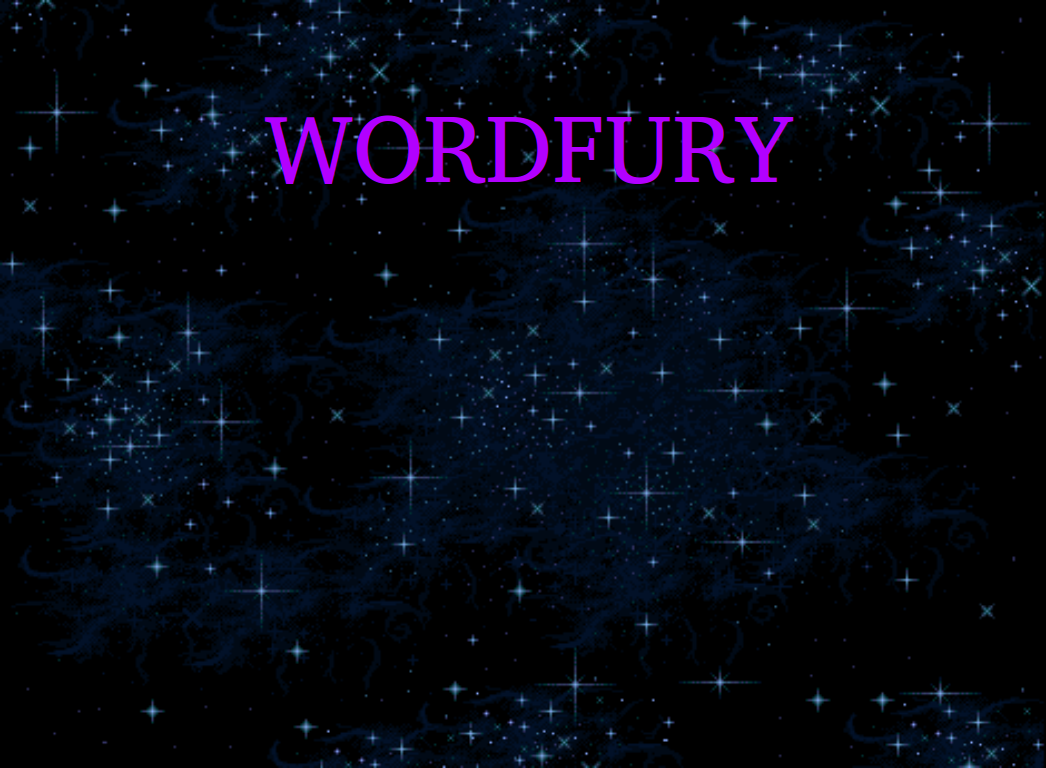
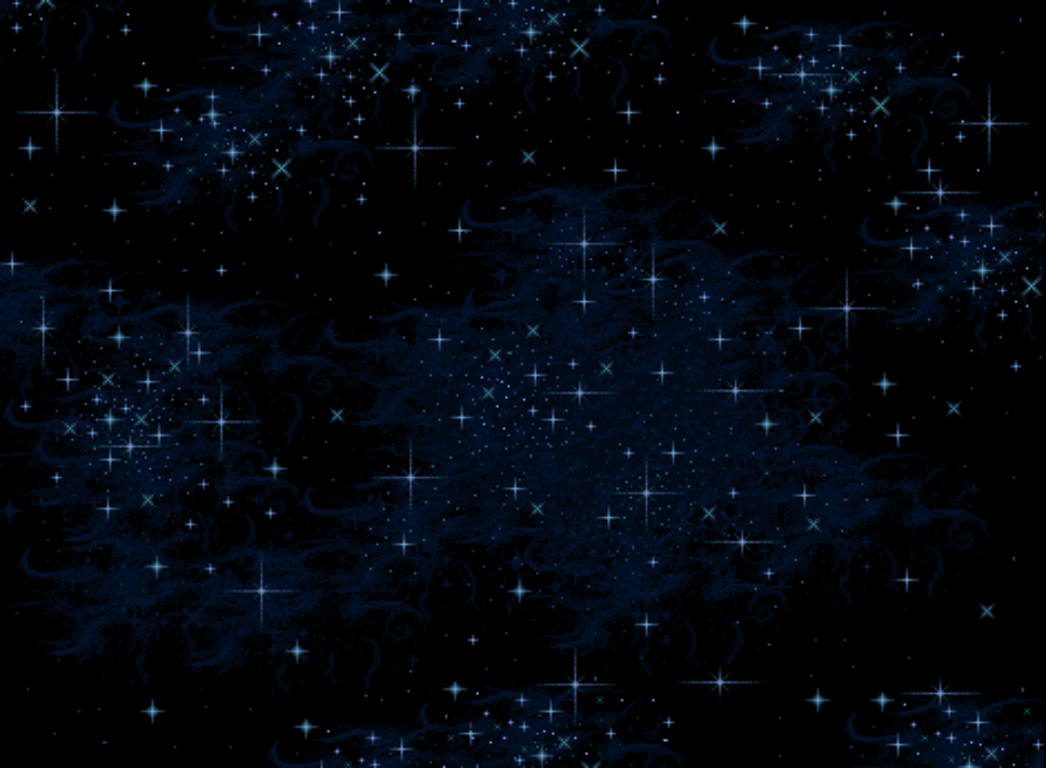
updated main menu and core game logic

Changed region(s): [[0.2447, 0.125, 0.7648, 0.25]]

diff --git a/src/CanvasInput.min.js b/src/CanvasInput.min.js
@@ -1,0 +1,10 @@
+/*!
+ *  CanvasInput v1.2.0
+ *  http://goldfirestudios.com/blog/108/CanvasInput-HTML5-Canvas-Text-Input
+ *
+ *  (c) 2013-2015, James Simpson of GoldFire Studios
+ *  goldfirestudios.com
+ *
+ *  MIT License
+ */
+!function(){var e=[],t=window.CanvasInput=function(t){var n=this;t=t?t:{},n._canvas=t.canvas||null,n._ctx=n._canvas?n._canvas.getContext("2d"):null,n._x=t.x||0,n._y=t.y||0,n._extraX=t.extraX||0,n._extraY=t.extraY||0,n._fontSize=t.fontSize||14,n._fontFamily=t.fontFamily||"Arial",n._fontColor=t.fontColor||"#000",n._placeHolderColor=t.placeHolderColor||"#bfbebd",n._fontWeight=t.fontWeight||"normal",n._fontStyle=t.fontStyle||"normal",n._readonly=t.readonly||!1,n._maxlength=t.maxlength||null,n._width=t.width||150,n._height=t.height||n._fontSize,n._padding=t.padding>=0?t.padding:5,n._borderWidth=t.borderWidth>=0?t.borderWidth:1,n._borderColor=t.borderColor||"#959595",n._borderRadius=t.borderRadius>=0?t.borderRadius:3,n._backgroundImage=t.backgroundImage||"",n._boxShadow=t.boxShadow||"1px 1px 0px rgba(255, 255, 255, 1)",n._innerShadow=t.innerShadow||"0px 0px 4px rgba(0, 0, 0, 0.4)",n._selectionColor=t.selectionColor||"rgba(179, 212, 253, 0.8)",n._placeHolder=t.placeHolder||"",n._value=(t.value||n._placeHolder)+"",n._onsubmit=t.onsubmit||function(){},n._onkeydown=t.onkeydown||function(){},n._onkeyup=t.onkeyup||function(){},n._onfocus=t.onfocus||function(){},n._onblur=t.onblur||function(){},n._cursor=!1,n._cursorPos=0,n._hasFocus=!1,n._selection=[0,0],n._wasOver=!1,n.boxShadow(n._boxShadow,!0),n._calcWH(),n._renderCanvas=document.createElement("canvas"),n._renderCanvas.setAttribute("width",n.outerW),n._renderCanvas.setAttribute("height",n.outerH),n._renderCtx=n._renderCanvas.getContext("2d"),n._shadowCanvas=document.createElement("canvas"),n._shadowCanvas.setAttribute("width",n._width+2*n._padding),n._shadowCanvas.setAttribute("height",n._height+2*n._padding),n._shadowCtx=n._shadowCanvas.getContext("2d"),"undefined"!=typeof t.backgroundGradient?(n._backgroundColor=n._renderCtx.createLinearGradient(0,0,0,n.outerH),n._backgroundColor.addColorStop(0,t.backgroundGradient[0]),n._backgroundColor.addColorStop(1,t.backgroundGradient[1])):n._backgroundColor=t.backgroundColor||"#fff",n._canvas&&(n._canvas.addEventListener("mousemove",function(e){e=e||window.event,n.mousemove(e,n)},!1),n._canvas.addEventListener("mousedown",function(e){e=e||window.event,n.mousedown(e,n)},!1),n._canvas.addEventListener("mouseup",function(e){e=e||window.event,n.mouseup(e,n)},!1)),window.addEventListener("mouseup",function(e){e=e||window.event,n._hasFocus&&!n._mouseDown&&n.blur()},!0),n._hiddenInput=document.createElement("input"),n._hiddenInput.type="text",n._hiddenInput.style.position="absolute",n._hiddenInput.style.opacity=0,n._hiddenInput.style.pointerEvents="none",n._hiddenInput.style.left=n._x+n._extraX+(n._canvas?n._canvas.offsetLeft:0)+"px",n._hiddenInput.style.top=n._y+n._extraY+(n._canvas?n._canvas.offsetTop:0)+"px",n._hiddenInput.style.width=n._width+"px",n._hiddenInput.style.height=n._height+"px",n._hiddenInput.style.zIndex=0,n._maxlength&&(n._hiddenInput.maxLength=n._maxlength),document.body.appendChild(n._hiddenInput),n._hiddenInput.value=n._value,n._hiddenInput.addEventListener("keydown",function(e){e=e||window.event,n._hasFocus&&n.keydown(e,n)}),n._hiddenInput.addEventListener("keyup",function(e){e=e||window.event,n._value=n._hiddenInput.value,n._cursorPos=n._hiddenInput.selectionStart,n.render(),n._hasFocus&&n._onkeyup(e,n)}),e.push(n),n._inputsIndex=e.length-1,n.render()};t.prototype={canvas:function(e){var t=this;return"undefined"!=typeof e?(t._canvas=e,t._ctx=t._canvas.getContext("2d"),t.render()):t._canvas},x:function(e){var t=this;return"undefined"!=typeof e?(t._x=e,t.render()):t._x},y:function(e){var t=this;return"undefined"!=typeof e?(t._y=e,t.render()):t._y},extraX:function(e){var t=this;return"undefined"!=typeof e?(t._extraX=e,t.render()):t._extraX},extraY:function(e){var t=this;return"undefined"!=typeof e?(t._extraY=e,t.render()):t._extraY},fontSize:function(e){var t=this;return"undefined"!=typeof e?(t._fontSize=e,t.render()):t._fontSize},fontFamily:function(e){var t=this;return"undefined"!=typeof e?(t._fontFamily=e,t.render()):t._fontFamily},fontColor:function(e){var t=this;return"undefined"!=typeof e?(t._fontColor=e,t.render()):t._fontColor},placeHolderColor:function(e){var t=this;return"undefined"!=typeof e?(t._placeHolderColor=e,t.render()):t._placeHolderColor},fontWeight:function(e){var t=this;return"undefined"!=typeof e?(t._fontWeight=e,t.render()):t._fontWeight},fontStyle:function(e){var t=this;return"undefined"!=typeof e?(t._fontStyle=e,t.render()):t._fontStyle},width:function(e){var t=this;return"undefined"!=typeof e?(t._width=e,t._calcWH(),t._updateCanvasWH(),t.render()):t._width},height:function(e){var t=this;return"undefined"!=typeof e?(t._height=e,t._calcWH(),t._updateCanvasWH(),t.render()):t._height},padding:function(e){var t=this;return"undefined"!=typeof e?(t._padding=e,t._calcWH(),t._updateCanvasWH(),t.render()):t._padding},borderWidth:function(e){var t=this;return"undefined"!=typeof e?(t._borderWidth=e,t._calcWH(),t._updateCanvasWH(),t.render()):t._borderWidth},borderColor:function(e){var t=this;return"undefined"!=typeof e?(t._borderColor=e,t.render()):t._borderColor},borderRadius:function(e){var t=this;return"undefined"!=typeof e?(t._borderRadius=e,t.render()):t._borderRadius},backgroundColor:function(e){var t=this;return"undefined"!=typeof e?(t._backgroundColor=e,t.render()):t._backgroundColor},backgroundGradient:function(e){var t=this;return"undefined"!=typeof e?(t._backgroundColor=t._renderCtx.createLinearGradient(0,0,0,t.outerH),t._backgroundColor.addColorStop(0,e[0]),t._backgroundColor.addColorStop(1,e[1]),t.render()):t._backgroundColor},boxShadow:function(e,t){var n=this;if("undefined"==typeof e)return n._boxShadow;var o=e.split("px ");return n._boxShadow={x:"none"===n._boxShadow?0:parseInt(o[0],10),y:"none"===n._boxShadow?0:parseInt(o[1],10),blur:"none"===n._boxShadow?0:parseInt(o[2],10),color:"none"===n._boxShadow?"":o[3]},n._boxShadow.x<0?(n.shadowL=Math.abs(n._boxShadow.x)+n._boxShadow.blur,n.shadowR=n._boxShadow.blur+n._boxShadow.x):(n.shadowL=Math.abs(n._boxShadow.blur-n._boxShadow.x),n.shadowR=n._boxShadow.blur+n._boxShadow.x),n._boxShadow.y<0?(n.shadowT=Math.abs(n._boxShadow.y)+n._boxShadow.blur,n.shadowB=n._boxShadow.blur+n._boxShadow.y):(n.shadowT=Math.abs(n._boxShadow.blur-n._boxShadow.y),n.shadowB=n._boxShadow.blur+n._boxShadow.y),n.shadowW=n.shadowL+n.shadowR,n.shadowH=n.shadowT+n.shadowB,n._calcWH(),t?void 0:(n._updateCanvasWH(),n.render())},innerShadow:function(e){var t=this;return"undefined"!=typeof e?(t._innerShadow=e,t.render()):t._innerShadow},selectionColor:function(e){var t=this;return"undefined"!=typeof e?(t._selectionColor=e,t.render()):t._selectionColor},placeHolder:function(e){var t=this;return"undefined"!=typeof e?(t._placeHolder=e,t.render()):t._placeHolder},value:function(e){var t=this;return"undefined"!=typeof e?(t._value=e+"",t._hiddenInput.value=e+"",t._cursorPos=t._clipText().length,t.render(),t):t._value===t._placeHolder?"":t._value},onsubmit:function(e){var t=this;return"undefined"!=typeof e?(t._onsubmit=e,t):void t._onsubmit()},onkeydown:function(e){var t=this;return"undefined"!=typeof e?(t._onkeydown=e,t):void t._onkeydown()},onkeyup:function(e){var t=this;return"undefined"!=typeof e?(t._onkeyup=e,t):void t._onkeyup()},focus:function(t){var n=this;if(!n._hasFocus){n._onfocus(n);for(var o=0;o<e.length;o++)e[o]._hasFocus&&e[o].blur()}if(n._selectionUpdated?delete n._selectionUpdated:n._selection=[0,0],n._hasFocus=!0,n._readonly)return void(n._hiddenInput.readOnly=!0);n._hiddenInput.readOnly=!1,n._cursorPos="number"==typeof t?t:n._clipText().length,n._placeHolder===n._value&&(n._value="",n._hiddenInput.value=""),n._cursor=!0,n._cursorInterval&&clearInterval(n._cursorInterval),n._cursorInterval=setInterval(function(){n._cursor=!n._cursor,n.render()},500);var r=n._selection[0]>0||n._selection[1]>0;return n._hiddenInput.focus(),n._hiddenInput.selectionStart=r?n._selection[0]:n._cursorPos,n._hiddenInput.selectionEnd=r?n._selection[1]:n._cursorPos,n.render()},blur:function(e){var t=e||this;return t._onblur(t),t._cursorInterval&&clearInterval(t._cursorInterval),t._hasFocus=!1,t._cursor=!1,t._selection=[0,0],t._hiddenInput.blur(),""===t._value&&(t._value=t._placeHolder),t.render()},keydown:function(t,n){{var o=t.which;t.shiftKey}if(!n._readonly&&n._hasFocus){if(n._onkeydown(t,n),65===o&&(t.ctrlKey||t.metaKey))return n.selectText(),t.preventDefault(),n.render();if(17===o||t.metaKey||t.ctrlKey)return n;if(13===o)t.preventDefault(),n._onsubmit(t,n);else if(9===o&&(t.preventDefault(),e.length>1)){var r=e[n._inputsIndex+1]?n._inputsIndex+1:0;n.blur(),setTimeout(function(){e[r].focus()},10)}return n._value=n._hiddenInput.value,n._cursorPos=n._hiddenInput.selectionStart,n._selection=[0,0],n.render()}},click:function(e,t){var n=t._mousePos(e),o=n.x,r=n.y;return t._endSelection?(delete t._endSelection,void delete t._selectionUpdated):t._canvas&&t._overInput(o,r)||!t._canvas?t._mouseDown?(t._mouseDown=!1,t.click(e,t),t.focus(t._clickPos(o,r))):void 0:t.blur()},mousemove:function(e,t){var n=t._mousePos(e),o=n.x,r=n.y,d=t._overInput(o,r);if(d&&t._canvas?(t._canvas.style.cursor="text",t._wasOver=!0):t._wasOver&&t._canvas&&(t._canvas.style.cursor="default",t._wasOver=!1),t._hasFocus&&t._selectionStart>=0){var a=t._clickPos(o,r),i=Math.min(t._selectionStart,a),_=Math.max(t._selectionStart,a);if(!d)return t._selectionUpdated=!0,t._endSelection=!0,delete t._selectionStart,void t.render();(t._selection[0]!==i||t._selection[1]!==_)&&(t._selection=[i,_],t.render())}},mousedown:function(e,t){var n=t._mousePos(e),o=n.x,r=n.y,d=t._overInput(o,r);t._mouseDown=d,t._hasFocus&&d&&(t._selectionStart=t._clickPos(o,r))},mouseup:function(e,t){var n=t._mousePos(e),o=n.x,r=n.y,d=t._clickPos(o,r)!==t._selectionStart;t._hasFocus&&t._selectionStart>=0&&t._overInput(o,r)&&d?(t._selectionUpdated=!0,delete t._selectionStart,t.render()):delete t._selectionStart,t.click(e,t)},selectText:function(e){var t=this,e=e||[0,t._value.length];return setTimeout(function(){t._selection=[e[0],e[1]],t._hiddenInput.selectionStart=e[0],t._hiddenInput.selectionEnd=e[1],t.render()},1),t},renderCanvas:function(){return this._renderCanvas},render:function(){var e=this,t=e._renderCtx,n=e.outerW,o=e.outerH,r=e._borderRadius,d=e._borderWidth,a=e.shadowW,i=e.shadowH;t&&(t.clearRect(0,0,t.canvas.width,t.canvas.height),t.shadowOffsetX=e._boxShadow.x,t.shadowOffsetY=e._boxShadow.y,t.shadowBlur=e._boxShadow.blur,t.shadowColor=e._boxShadow.color,e._borderWidth>0&&(t.fillStyle=e._borderColor,e._roundedRect(t,e.shadowL,e.shadowT,n-a,o-i,r),t.fill(),t.shadowOffsetX=0,t.shadowOffsetY=0,t.shadowBlur=0),e._drawTextBox(function(){t.shadowOffsetX=0,t.shadowOffsetY=0,t.shadowBlur=0;var _=e._clipText(),s=e._padding+e._borderWidth+e.shadowT;if(e._selection[1]>0){var u=e._textWidth(_.substring(0,e._selection[0])),l=e._textWidth(_.substring(e._selection[0],e._selection[1]));t.fillStyle=e._selectionColor,t.fillRect(s+u,s,l,e._height)}if(e._cursor){var c=e._textWidth(_.substring(0,e._cursorPos));t.fillStyle=e._fontColor,t.fillRect(s+c,s,1,e._height)}var h=e._padding+e._borderWidth+e.shadowL,f=Math.round(s+e._height/2);_=""===_&&e._placeHolder?e._placeHolder:_,t.fillStyle=""!==e._value&&e._value!==e._placeHolder?e._fontColor:e._placeHolderColor,t.font=e._fontStyle+" "+e._fontWeight+" "+e._fontSize+"px "+e._fontFamily,t.textAlign="left",t.textBaseline="middle",t.fillText(_,h,f);var v=e._innerShadow.split("px "),p="none"===e._innerShadow?0:parseInt(v[0],10),w="none"===e._innerShadow?0:parseInt(v[1],10),x="none"===e._innerShadow?0:parseInt(v[2],10),b="none"===e._innerShadow?"":v[3];if(x>0){var y=e._shadowCtx,g=y.canvas.width,C=y.canvas.height;y.clearRect(0,0,g,C),y.shadowBlur=x,y.shadowColor=b,y.shadowOffsetX=0,y.shadowOffsetY=w,y.fillRect(-1*n,-100,3*n,100),y.shadowOffsetX=p,y.shadowOffsetY=0,y.fillRect(g,-1*o,100,3*o),y.shadowOffsetX=0,y.shadowOffsetY=w,y.fillRect(-1*n,C,3*n,100),y.shadowOffsetX=p,y.shadowOffsetY=0,y.fillRect(-100,-1*o,100,3*o),e._roundedRect(t,d+e.shadowL,d+e.shadowT,n-2*d-a,o-2*d-i,r),t.clip(),t.drawImage(e._shadowCanvas,0,0,g,C,d+e.shadowL,d+e.shadowT,g,C)}return e._ctx&&(e._ctx.clearRect(e._x,e._y,t.canvas.width,t.canvas.height),e._ctx.drawImage(e._renderCanvas,e._x,e._y)),e}))},destroy:function(){var t=this,n=e.indexOf(t);n&&e.splice(n,1),t._hasFocus&&t.blur(),document.body.removeChild(t._hiddenInput),t._renderCanvas=null,t._shadowCanvas=null,t._renderCtx=null},_drawTextBox:function(e){var t=this,n=t._renderCtx,o=t.outerW,r=t.outerH,d=t._borderRadius,a=t._borderWidth,i=t.shadowW,_=t.shadowH;if(""===t._backgroundImage)n.fillStyle=t._backgroundColor,t._roundedRect(n,a+t.shadowL,a+t.shadowT,o-2*a-i,r-2*a-_,d),n.fill(),e();else{var s=new Image;s.src=t._backgroundImage,s.onload=function(){n.drawImage(s,0,0,s.width,s.height,a+t.shadowL,a+t.shadowT,o,r),e()}}},_clearSelection:function(){var e=this;if(e._selection[1]>0){var t=e._selection[0],n=e._selection[1];return e._value=e._value.substr(0,t)+e._value.substr(n),e._cursorPos=t,e._cursorPos=e._cursorPos<0?0:e._cursorPos,e._selection=[0,0],!0}return!1},_clipText:function(e){var t=this;e="undefined"==typeof e?t._value:e;var n=t._textWidth(e),o=n/(t._width-t._padding),r=o>1?e.substr(-1*Math.floor(e.length/o)):e;return r+""},_textWidth:function(e){var t=this,n=t._renderCtx;return n.font=t._fontStyle+" "+t._fontWeight+" "+t._fontSize+"px "+t._fontFamily,n.textAlign="left",n.measureText(e).width},_calcWH:function(){var e=this;e.outerW=e._width+2*e._padding+2*e._borderWidth+e.shadowW,e.outerH=e._height+2*e._padding+2*e._borderWidth+e.shadowH},_updateCanvasWH:function(){var e=this,t=e._renderCanvas.width,n=e._renderCanvas.height;e._renderCanvas.setAttribute("width",e.outerW),e._renderCanvas.setAttribute("height",e.outerH),e._shadowCanvas.setAttribute("width",e._width+2*e._padding),e._shadowCanvas.setAttribute("height",e._height+2*e._padding),e._ctx&&e._ctx.clearRect(e._x,e._y,t,n)},_roundedRect:function(e,t,n,o,r,d){2*d>o&&(d=o/2),2*d>r&&(d=r/2),e.beginPath(),e.moveTo(t+d,n),e.lineTo(t+o-d,n),e.quadraticCurveTo(t+o,n,t+o,n+d),e.lineTo(t+o,n+r-d),e.quadraticCurveTo(t+o,n+r,t+o-d,n+r),e.lineTo(t+d,n+r),e.quadraticCurveTo(t,n+r,t,n+r-d),e.lineTo(t,n+d),e.quadraticCurveTo(t,n,t+d,n),e.closePath()},_overInput:function(e,t){var n=this,o=e>=n._x+n._extraX,r=e<=n._x+n._extraX+n._width+2*n._padding,d=t>=n._y+n._extraY,a=t<=n._y+n._extraY+n._height+2*n._padding;return o&&r&&d&&a},_clickPos:function(e){var t=this,n=t._value;t._value===t._placeHolder&&(n="");var o=t._clipText(n),r=0,d=o.length;if(e-(t._x+t._extraX)<t._textWidth(o))for(var a=0;a<o.length;a++)if(r+=t._textWidth(o[a]),r>=e-(t._x+t._extraX)){d=a;break}return d},_mousePos:function(e){var t=e.target,n=document.defaultView.getComputedStyle(t,void 0),o=parseInt(n.paddingLeft,10)||0,r=parseInt(n.paddingLeft,10)||0,d=parseInt(n.borderLeftWidth,10)||0,a=parseInt(n.borderLeftWidth,10)||0,i=document.body.parentNode.offsetTop||0,_=document.body.parentNode.offsetLeft||0,s=0,u=0;if("undefined"!=typeof t.offsetParent)do s+=t.offsetLeft,u+=t.offsetTop;while(t=t.offsetParent);return s+=o+d+_,u+=r+a+i,{x:e.pageX-s,y:e.pageY-u}}}}();

diff --git a/src/Game.js b/src/Game.js
@@ -1,5 +1,6 @@
 BasicGame.Game = function (game) {  
     this.word2 = null;
+    this.wordSprite = null;
     this.wordList;
     this.entry = null;
 };
@@ -7,50 +8,92 @@ BasicGame.Game = function (game) {
 BasicGame.Game.prototype = {
 
     create: function () {
-        this.wordList = ['car', 'steve', 'ban', 'oats'];
-        this.entry = this.add.text(this.world.centerX, 700, '', {
-            font: "32px Arial",
-            fill: "#ff0044",
-            align: "center"
-        });
+        this.wordList = ['St. Peter', 'car', 'steve', 'ban', 'oats', 'brian', 'chris', 'mike', '1234', '#wordFury'];
+        var textInputCanvas = document.getElementById('canvas');
+        textInputCanvas.style.top = 700 + 'px';
+        textInputCanvas.style.left = this.world.centerX - textInputCanvas.width/2 + 'px';
 
-        this.word2 = this.add.text(this.world.centerX, this.world.topY, 'apple', {
+        this.entry = new CanvasInput({
+            canvas: document.getElementById('canvas'),
+            //canvas: document.getElementById(this.game.canvas.id);
+            fontSize: 18,
+            fontFamily: 'Arial',
+            fontColor: '#212121',
+            fontWeight: 'bold',
+            width: 300,
+            padding: 8,
+            borderWidth: 1,
+            borderColor: '#000',
+            borderRadius: 3,
+            boxShadow: '1px 1px 0px #fff',
+            innerShadow: '0px 0px 5px rgba(0, 0, 0, 0.5)',
+            placeHolder: 'Enter message here...'
+        });
+        this.entry.focus();
+
+        var that = this;
+        this.entry.onsubmit(
+            function() {
+                that.wordSubmit();
+            }
+        );
+        
+
+        this.game.physics.startSystem(Phaser.Physics.ARCADE);
+
+        //this.word2 = this.game.add.bitmapText(this.world.centerX, this.world.topY, 'stack', 'apple', 64);        
+
+        this.word2 = this.game.add.text(0, 0, this.rnd.pick(this.wordList), {
             font: "32px Arial",
             fill: "#ff0044",
             align: "center"
         });
 
         this.word2.anchor.setTo(0.5, 0.5);
+        //this.word2.setShadow(5, 5, 'rgba(0,0,0,0.5)', 5);
+        
+        this.wordSprite = this.add.sprite(this.world.centerX, this.world.topY, null);
+        this.wordSprite.addChild(this.word2);
 
-        this.input.keyboard.addCallbacks(this, null, this.keyPress, null);
+        this.game.physics.enable(this.wordSprite);
+        this.wordSprite.body.velocity.setTo(0, 100);
     },
 
-    keyPress: function (char) {
-        if(char.key == "Backspace"){
-            this.entry.setText('')
-            return;
-        }
-        if(char.key == "Enter"){
-            this.checkValue();
-            this.entry.setText('');
-            return;
-        }
-        this.entry.setText(this.entry.text + char.key);
+    wordSubmit: function () {
+        this.checkValue();
     },
 
     checkValue: function() {
-        if(this.entry.text.trim() == this.word2.text.trim()) {
-            this.word2.destroy();
-            this.word2 = this.add.text(this.rnd.realInRange(0, this.world.width-100), this.world.topY, this.rnd.pick(this.wordList), {
+        var word = this.entry.value();
+
+        this.entry.value("");
+        if(word.trim() == this.word2.text.trim()) {
+            this.removeWord(word);
+            this.wordSprite.destroy();
+            this.word2 = this.game.add.text(0, 0, this.rnd.pick(this.wordList), {
             font: "32px Arial",
             fill: "#ff0044",
             align: "center"
         });
+        this.word2.anchor.setTo(0.5);        
+        this.wordSprite = this.add.sprite(this.rnd.realInRange(100, this.world.width-100), this.world.topY, null);
+        this.wordSprite.addChild(this.word2);
+
+        this.game.physics.enable(this.wordSprite);
+        this.wordSprite.anchor.setTo(0.5, 0.5);
+        this.wordSprite.body.velocity.setTo(0, 100);
+        this.wordSprite.body.angularVelocity = 50;
+        }
+    },
+
+    removeWord: function(word) {
+        var index = this.wordList.indexOf(word);
+        if(index > -1) {
+            this.wordList.splice(index, 1);
         }
     },
 
     update: function () {
-        this.word2.y += 1;
         
         //  Honestly, just about anything could go here. It's YOUR game after all. Eat your heart out!
     },

diff --git a/src/MainMenu.js b/src/MainMenu.js
@@ -1,6 +1,6 @@
 
 BasicGame.MainMenu = function (game) {
-
+	this.titleText = null;
 	this.music = null;
 	this.playButton = null;
 
@@ -14,13 +14,21 @@ BasicGame.MainMenu.prototype = {
 		//	Here all we're doing is playing some music and adding a picture and button
 		//	Naturally I expect you to do something significantly better :)
 
-		this.background = this.add.sprite(0, 0, 'preloaderBackground');
-		this.music = this.add.audio('titleMusic', 1, true);
+		this.background = this.game.add.sprite(0, 0, 'preloaderBackground');
+		this.background = this.game.add.tileSprite(0, 0, 1046, 768, 'preloaderBackground');
+		this.background.autoScroll(-200, 0);
+		
+		this.titleText = this.game.add.bitmapText(this.game.width/2, 150, 'stack', 'WordFury', 100);
+		this.titleText.updateText();
+		this.titleText.x = this.game.world.centerX - (this.titleText.textWidth * 0.5);
+		
+		this.music = this.game.add.audio('titleMusic', 1, true);
 		this.music.play();
 
 		//this.add.sprite(0, 0, 'titlepage');
 
-		this.playButton = this.add.button(400, 600, 'playButton', this.startGame, this, 'buttonOver', 'buttonOut', 'buttonOver');
+		this.playButton = this.game.add.button(this.game.width/2, 600, 'playButton', this.startGame, this, 'buttonOver', 'buttonOut', 'buttonOver');
+		this.playButton.anchor.setTo(0.5, 0.5);
 
 	},
 

diff --git a/src/index.html b/src/index.html
@@ -4,6 +4,7 @@
 	<meta charset="UTF-8" />
 	<title>WordFury Game</title>
 	<script src="phaser.min.js"></script>
+	<script src="CanvasInput.min.js"></script>
 	<script src="Boot.js"></script>
 	<script src="Preloader.js"></script>
 	<script src="MainMenu.js"></script>
@@ -13,6 +14,8 @@
 
 <div id="gameContainer"></div>
 
+<canvas id="canvas" width="350", height="100" style="position:absolute; top:0px; left:0px; z-index:1" text-align:center;></canvas>
+
 <script type="text/javascript">
 
 window.onload = function() {
@@ -20,7 +23,6 @@ window.onload = function() {
 	//	Create your Phaser game and inject it into the gameContainer div.
 	//	We did it in a window.onload event, but you can do it anywhere (requireJS load, anonymous function, jQuery dom ready, - whatever floats your boat)
 	var game = new Phaser.Game(1024, 768, Phaser.AUTO, 'gameContainer');
-
 	//	Add the States your game has.
 	//	You don't have to do this in the html, it could be done in your Boot state too, but for simplicity I'll keep it here.
 	game.state.add('Boot', BasicGame.Boot);

diff --git a/src/Preloader.js b/src/Preloader.js
@@ -15,7 +15,8 @@ BasicGame.Preloader.prototype = {
 		//	These are the assets we loaded in Boot.js
 		//	A nice sparkly background and a loading progress bar
 		this.background = this.add.sprite(0, 0, 'preloaderBackground');
-		this.preloadBar = this.add.sprite(300, 400, 'preloaderBar');
+		this.preloadBar = this.add.sprite(this.game.width/2, this.game.height/2, 'preloaderBar');
+		this.preloadBar.anchor.setTo(0.5, 0.5);
 
 		//	This sets the preloadBar sprite as a loader sprite.
 		//	What that does is automatically crop the sprite from 0 to full-width
@@ -27,7 +28,7 @@ BasicGame.Preloader.prototype = {
 		//this.load.image('titlepage', 'images/title.jpg');
 		this.load.image('playButton', 'images/playbutton.png');
 		this.load.audio('titleMusic', ['sounds/Revving_Eight_Bit_Engines.ogg', 'sounds/Revving_Eight_Bit_Engines.mp3']);
-		//this.load.bitmapFont('caslon', 'fonts/caslon.png', 'fonts/caslon.xml');
+		this.load.bitmapFont('stack', 'fonts/shortStack.png', 'fonts/shortStack.xml');
 		//	+ lots of other required assets here
 
 	},

diff --git a/src/Boot.js b/src/Boot.js
@@ -34,6 +34,7 @@ BasicGame.Boot.prototype = {
     preload: function () {
 
         //  Here we load the assets required for our preloader (in this case a background and a loading bar)
+        this.load.bitmapFont('stack', 'fonts/shortStack.png', 'fonts/shortStack.xml');
         this.load.image('preloaderBackground', 'images/space.png');
         this.load.image('preloaderBar', 'images/preload.png');
 
